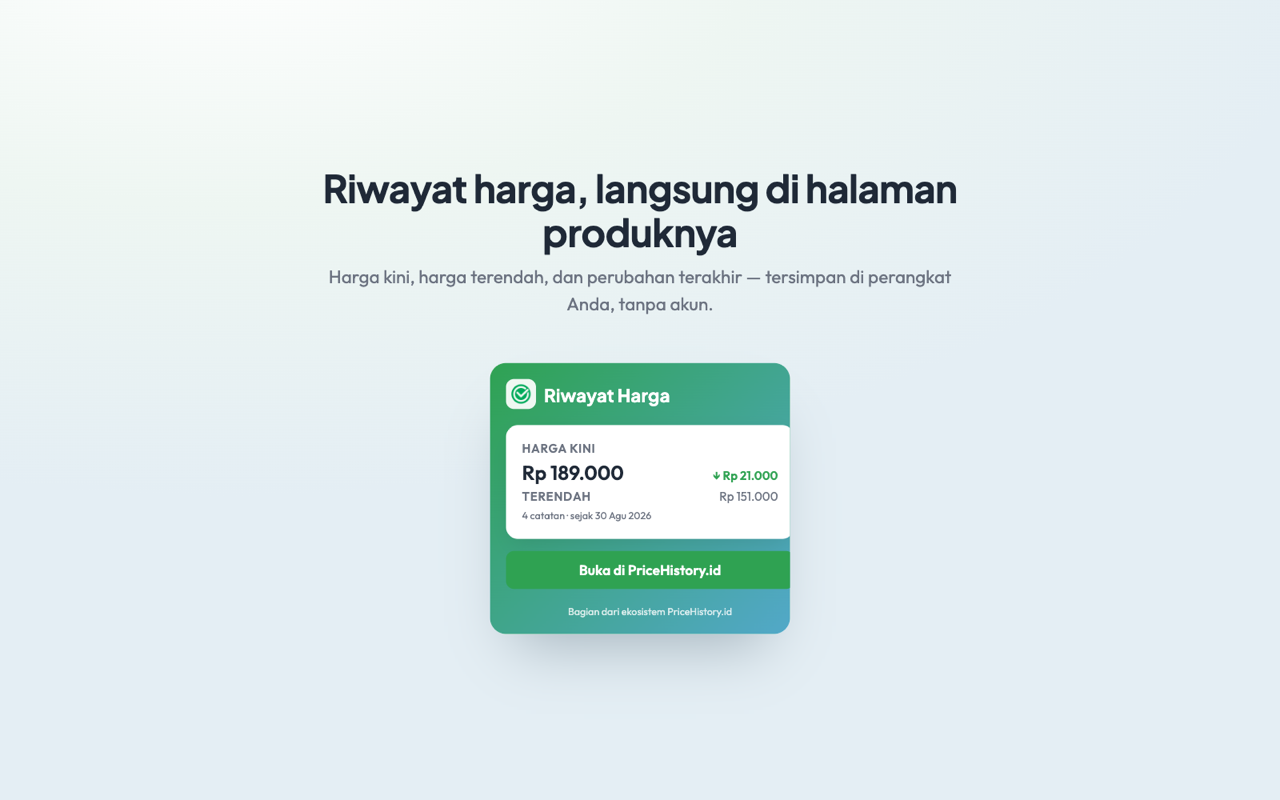
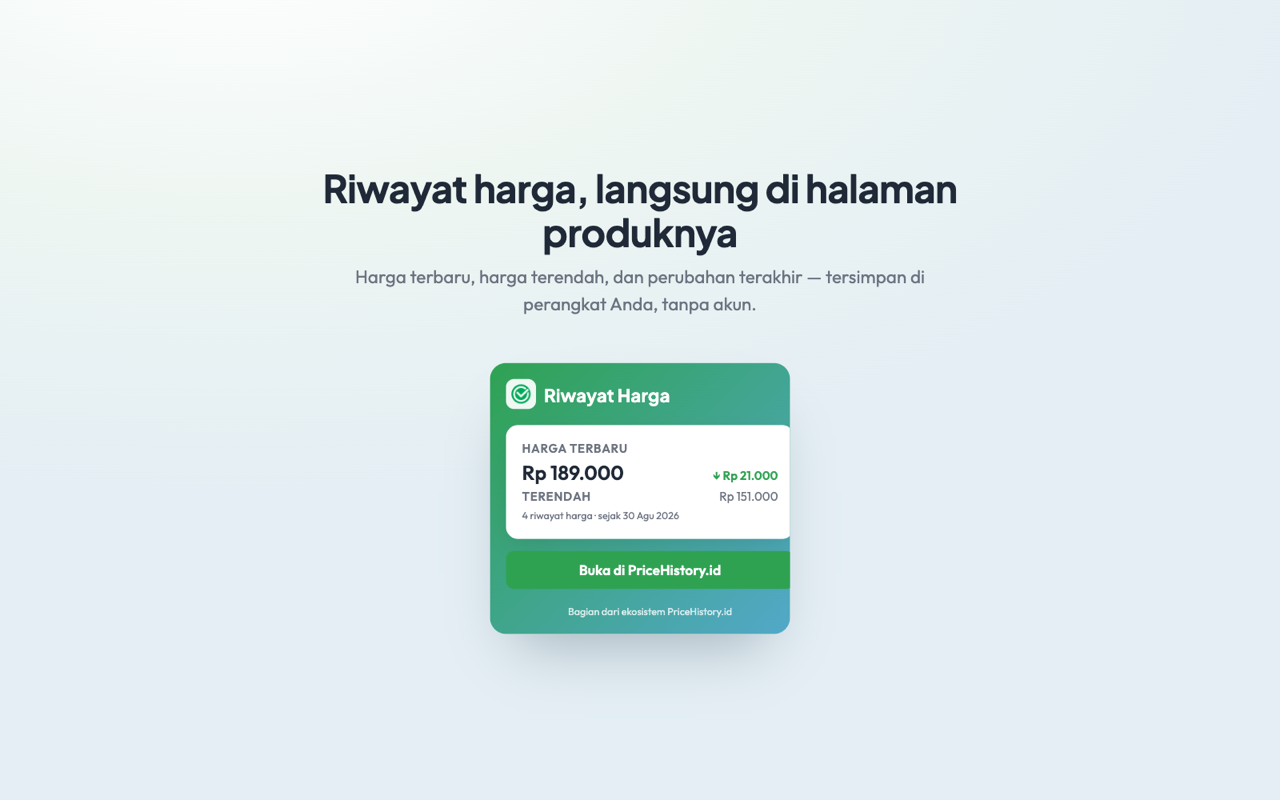
copy: call the price 'harga terbaru' and the points 'riwayat harga'
Matches the wording in the listing text, and screenshot-1 is regenerated from
the rebuilt popup so the store asset still shows what users see.

Changed region(s): [[0.25, 0.3438, 0.75, 0.4062], [0.4062, 0.625, 0.5312, 0.6562], [0.4375, 0.5312, 0.4688, 0.5625]]

diff --git a/entrypoints/popup/index.html b/entrypoints/popup/index.html
@@ -168,7 +168,7 @@
         <div class="card-text" data-state="not-tokopedia" hidden>Bukan halaman Tokopedia</div>
         <div class="card-text" data-state="error" hidden>Data harga tidak bisa dibaca</div>
         <div class="product-block" data-state="pdp-tracked" hidden>
-          <div class="card-title">Harga kini</div>
+          <div class="card-title">Harga terbaru</div>
           <div class="price-row">
             <span class="current-price" data-field="current">—</span>
             <span class="price-delta" data-field="delta" hidden></span>

diff --git a/entrypoints/popup/main.ts b/entrypoints/popup/main.ts
@@ -92,7 +92,7 @@ export async function render(): Promise<void> {
     setField('lowest', formatIDR(summary.lowest.price));
     setField(
       'records',
-      `${summary.recordCount} catatan · sejak ${formatDate(new Date(summary.firstSeen))}`,
+      `${summary.recordCount} riwayat harga · sejak ${formatDate(new Date(summary.firstSeen))}`,
     );
     renderDelta(summary.delta);
 

diff --git a/docs/store-listing.md b/docs/store-listing.md
@@ -17,13 +17,13 @@ Everything a Chrome Web Store (CWS) or Firefox Add-ons (AMO) submission asks for
 
 ## Short description (CWS limit: 132 characters)
 
-> Riwayat harga produk Tokopedia — harga kini, harga terendah, dan tren harga, langsung saat Anda berbelanja.
+> Riwayat harga produk Tokopedia — harga terbaru, harga terendah, dan tren harga, langsung saat Anda berbelanja.
 
 ## Detailed description (Bahasa Indonesia)
 
 **Riwayat harga di setiap halaman produk Tokopedia.**
 
-Buka halaman produk apa pun di Tokopedia dan lihat riwayat harganya: harga kini, harga terendah yang pernah tercatat, dan grafik tren harga dengan garis harga rata-rata. Tidak perlu membuka tab lain, tidak perlu akun.
+Buka halaman produk apa pun di Tokopedia dan lihat riwayat harganya: harga terbaru, harga terendah yang pernah tercatat, dan grafik tren harga dengan garis harga rata-rata. Tidak perlu membuka tab lain, tidak perlu akun.
 
 **Yang Anda dapatkan**
 
